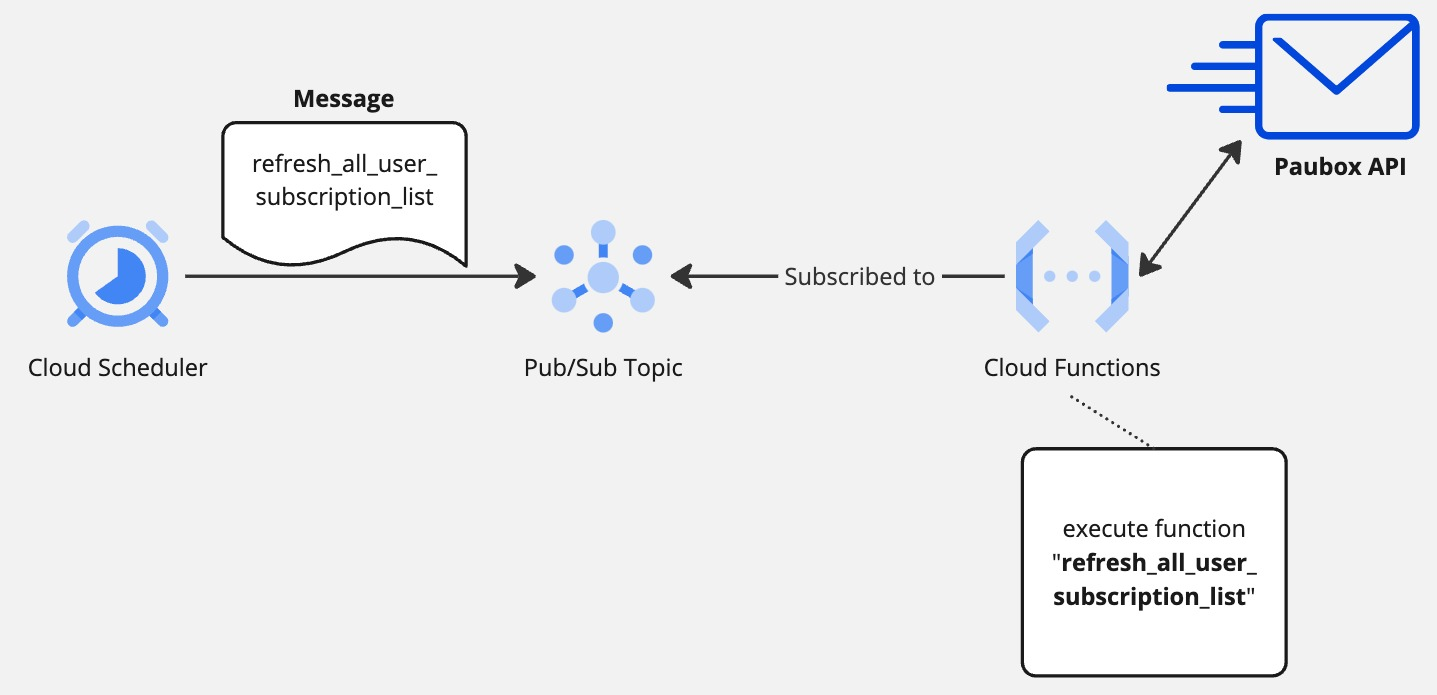
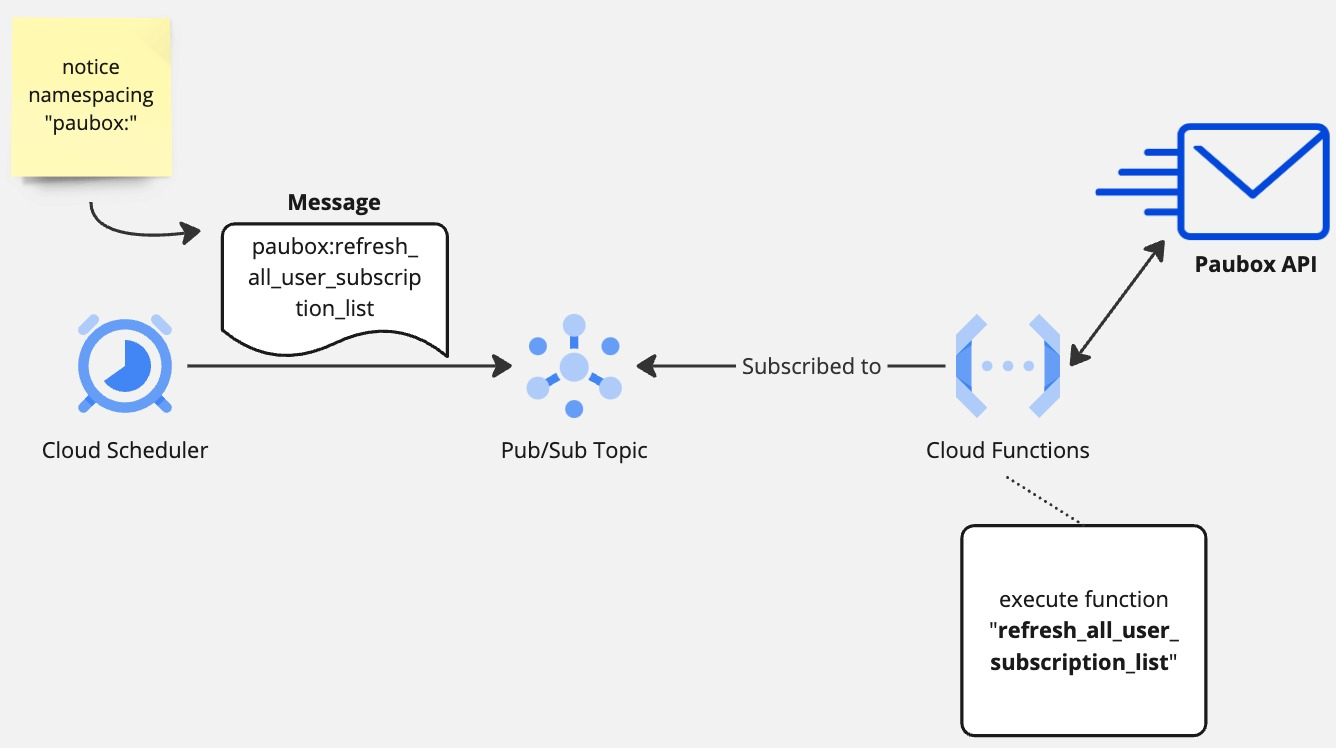
allow namespacing - update readme - disable test ci for now

diff --git a/main.py b/main.py
@@ -9,14 +9,14 @@ from cloudevents.http import CloudEvent
 def subscribe(cloud_event: CloudEvent) -> None:
     try:
         message = base64.b64decode(cloud_event.data["message"]["data"]).decode("utf-8")
-        func_name = message.strip()
+        namespace, func_name = message.strip().split(":")
 
-        module = importlib.import_module(f"src.functions.{func_name}")
+        module = importlib.import_module(f"src.functions.{namespace}.{func_name}")
         call_func = getattr(module, func_name)
         call_func()
     except Exception as e:
         if func_name and call_func is None:
-            print(f"Function {func_name} not found")
+            print(f"Function {func_name} not found in namespace {namespace}")
             print(f"Error: {e}")
         else:
             print(f"Error: {e}")

diff --git a/src/functions/paubox/refresh_all_user_subscription_list.py b/src/functions/paubox/refresh_all_user_subscription_list.py
@@ -1,8 +1,11 @@
 from google.cloud import bigquery
 
-from ..config.logger import get_logger
-from ..paubox.subscribers import bulk_create_subscribers
-from ..paubox.subscription_list import get_subscription_lists, delete_subscription_list
+from ...config.logger import get_logger
+from ...paubox_api.subscribers import bulk_create_subscribers
+from ...paubox_api.subscription_list import (
+    get_subscription_lists,
+    delete_subscription_list,
+)
 
 log = get_logger()
 

diff --git a/README.md b/README.md
@@ -1,12 +1,14 @@
-# paubox-cloud-functions
+# cloudfunctions
 
-Repository for data platform Paubox related Cloud Functions.
+Repository for data platform related Cloud Functions.
 
 ## PubSub Topic to Cloud Function mapping
 
 Many Cloud Functions will map and subscribe to PubSub Topics that receive a message directive from Google Cloud Scheduler. The Cloud Scheduler push to PubSub topic is the initial trigger that creates the message in the topic that the Cloud Function subscribes to.
 
 Ensure the PubSub Topic & Cloud Scheduler job exist. See [this Terraform file](https://github.com/remohealth/terraform/blob/main/infra/app/data-platform/gcp/prod/paubox_pipeline.tf) in our Terraform repo.
+
+## Example Paubox use case for Cloud Functions
 
 <img src="assets/flow.jpg" alt="Cloud Function Flow" width="650"/>
 
